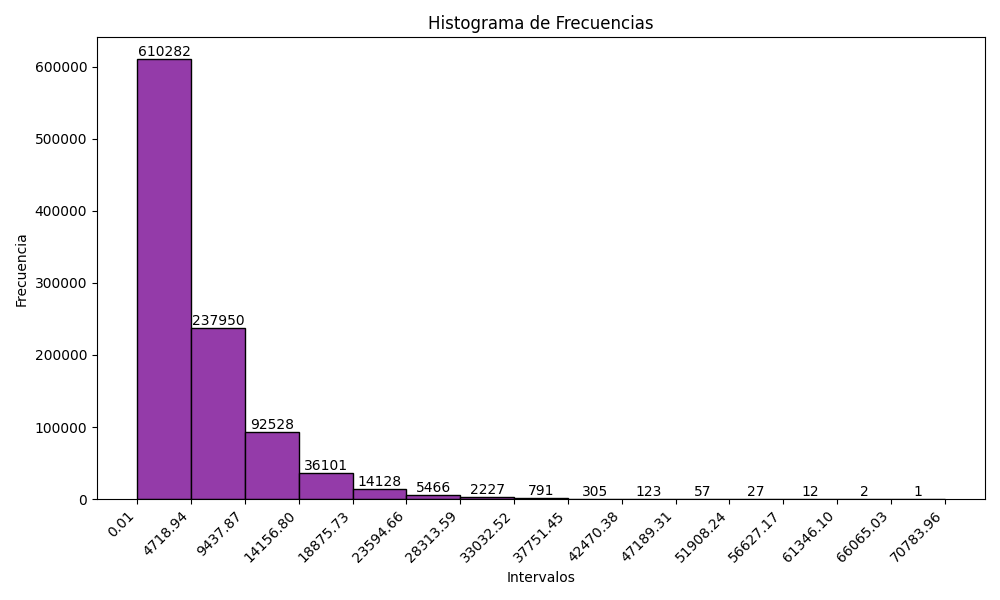
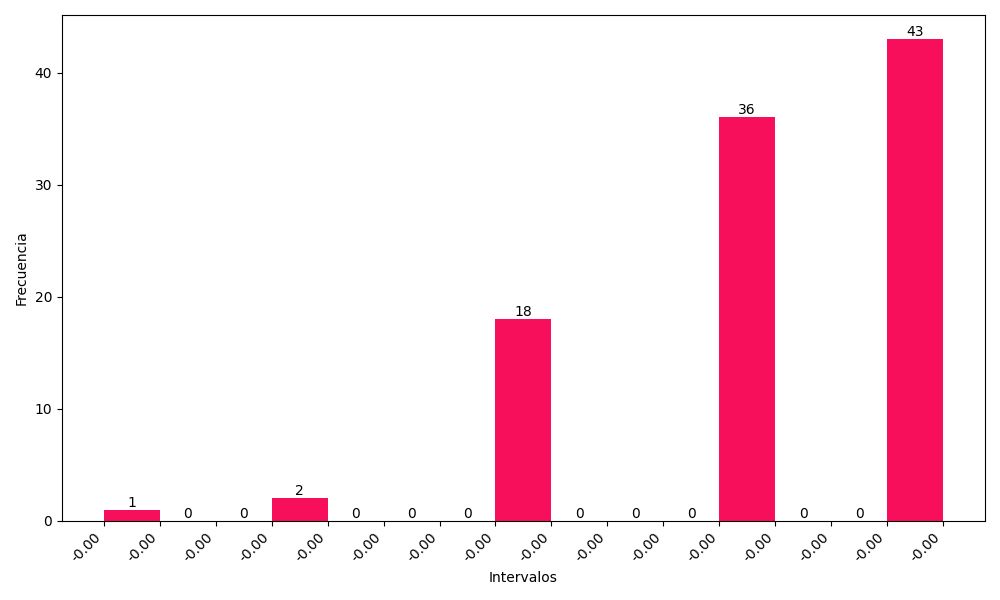
Validaciones finales, testear a full

diff --git a/templates/main_menu.html b/templates/main_menu.html
@@ -20,7 +20,7 @@
             <div class="row mt-4">
                 <div class="col">
                     <label for="cantidad">Cantidad de Números Aleatorios:</label>
-                    <input type="number" id="cantidad" name="cantidad" required class="form-control" value="0">
+                    <input type="number" id="cantidad" name="cantidad" required class="form-control" value="0" min="1">
                 </div>
                 <div class="col">
                     <input type="checkbox" id="visualizar" name="visualizar">
@@ -32,7 +32,7 @@
             <div class="row mt-4">
                 <div class="col">
                     <label for="intervalos">Número de Intervalos:</label>
-                    <input type="range" id="intervalos" name="intervalos" min="5" max="20" step="5" value="15" class="form-range">
+                    <input type="range" id="intervalos" name="intervalos" min="5" max="20" step="5" value="5" class="form-range">
                     <div class="d-flex justify-content-between">
                         <span>5</span>
                         <span>10</span>
@@ -42,15 +42,15 @@
                 </div>
             </div>
 
-            <!-- Uniform Distribution -->
             <div class="row mt-4">
+                <!-- Uniform Distribution -->
                 <div class="col distribution-column align-items-end">
                     <h2>Distribución Uniforme</h2>
                     <label for="a">Límite Inferior (a):</label>
-                    <input type="number" id="a" name="a" required class="form-control" value="0">
+                    <input type="number" id="a" name="a" required class="form-control" value="0" step="0.0001">
 
                     <label for="b">Límite Superior (b):</label>
-                    <input type="number" id="b" name="b" required class="form-control" value="0">
+                    <input type="number" id="b" name="b" required class="form-control" value="0" step="0.0001">
 
                     <button type="submit" name="distribution" value="uniforme" class="btn btn-primary mt-2">Generar Uniforme</button>
                 </div>
@@ -59,7 +59,7 @@
                 <div class="col distribution-column">
                     <h2>Distribución Exponencial</h2>
                     <label for="media">Media:</label>
-                    <input type="number" id="media" name="media" required class="form-control" value="0">
+                    <input type="number" id="media" name="media" required class="form-control" value="0" step="0.0001" min="0">
 
                     <button type="submit" name="distribution" value="exponencial" class="btn btn-primary mt-2">Generar Exponencial</button>
                 </div>
@@ -68,10 +68,10 @@
                 <div class="col">
                     <h2>Distribución Normal</h2>
                     <label for="media_normal">Media:</label>
-                    <input type="number" id="media_normal" name="media_normal" required class="form-control" value="0">
+                    <input type="number" id="media_normal" name="media_normal" required class="form-control" value="0" step="0.0001">
 
                     <label for="desviacion">Desviación Estándar:</label>
-                    <input type="number" id="desviacion" name="desviacion" required class="form-control" value="0">
+                    <input type="number" id="desviacion" name="desviacion" required class="form-control" value="0" step="0.0001">
 
                     <button type="submit" name="distribution" value="normal" class="btn btn-primary mt-2">Generar Normal</button>
                 </div>

diff --git a/templates/distribution.html b/templates/distribution.html
@@ -25,8 +25,6 @@
                 </div>
             {% endfor %}
         </div>
-        {% else %}
-            <p>No numbers to display.</p>
         {% endif %}
     </div>
 

diff --git a/histograma.py b/histograma.py
@@ -14,12 +14,11 @@ def graficar_histograma(vector, intervalos):
     color = generar_color()
     
     # Create the histogram
-    n, bins, patches = ax.hist(vector, bins=intervalos, edgecolor='black', color=color)
+    n, bins, patches = ax.hist(vector, bins=intervalos, color=color)
     
     # Set labels and title
     ax.set_xlabel('Intervalos')
     ax.set_ylabel('Frecuencia')
-    ax.set_title('Histograma de Frecuencias')
     
     # Annotate bars with their height (frequency)
     for i in range(len(patches)):

diff --git a/main.py b/main.py
@@ -45,7 +45,6 @@ def uniforme():
     hist = graficar_histograma(result, int(request.args.get('intervalos', 10)))
     guardar_imagen(hist, 'histogram_uniforme.png')
     
-    print(result)
     return render_template('distribution.html', distr='uniforme', show_matrix=visualizar, items=result, histogram_url='/static/histogram_uniforme.png')
 
 @app.route('/exponencial')
